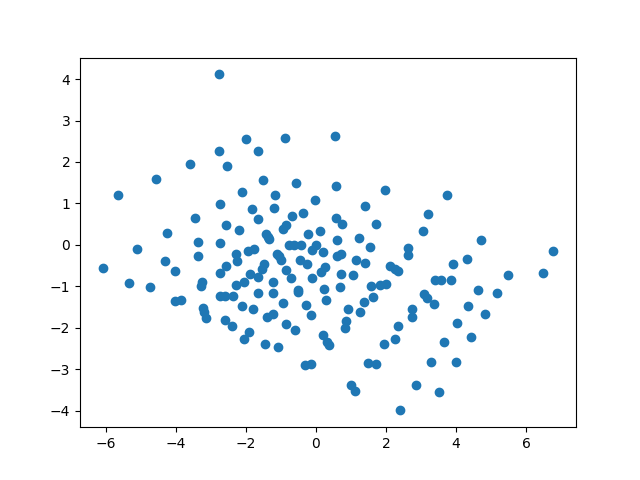
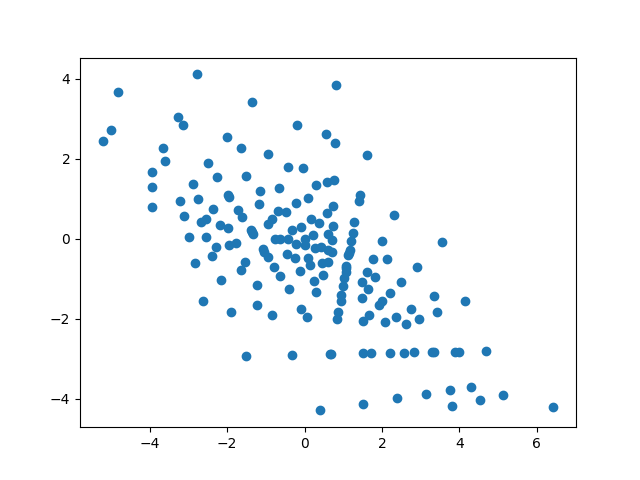
revision

diff --git a/perspective/project.py b/perspective/project.py
@@ -103,7 +103,7 @@ for i in range(-3, 4):
 # 6)
 M = np.array(m)
 T = np.array([[-1, -1, 0], [1, -1, 0], [0, 1, -1]])
-points = T @ np.transpose(M)
+points = np.transpose(M @ T)
 
 # 7)
 A = np.array([[3, 2, 1],
